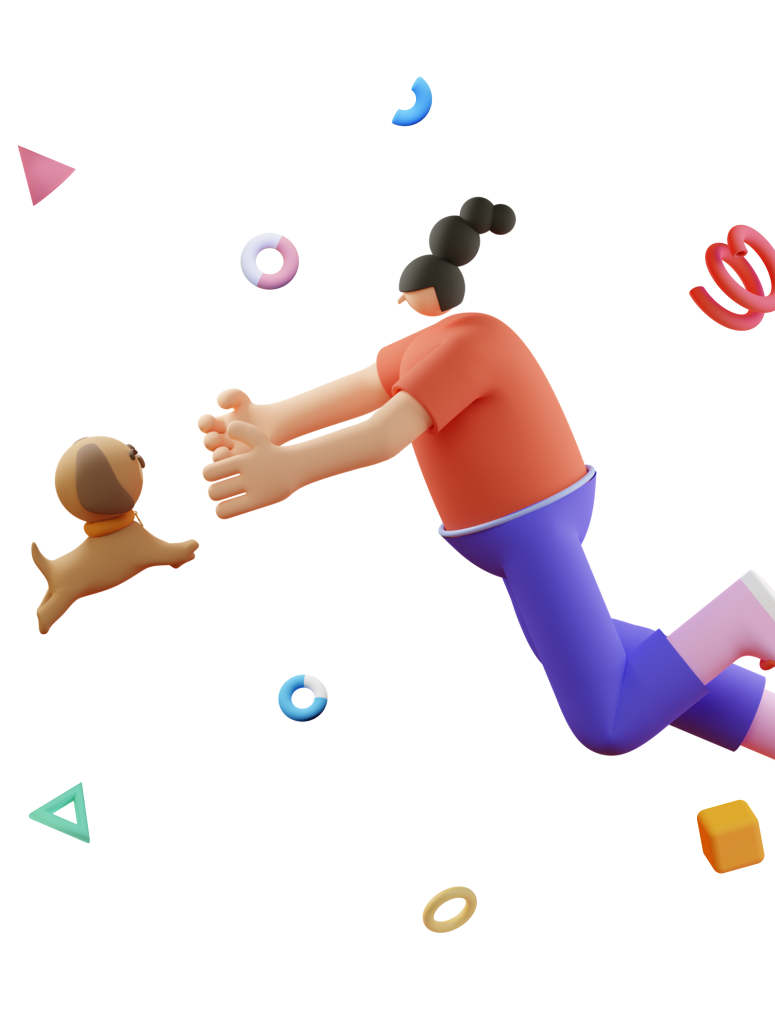
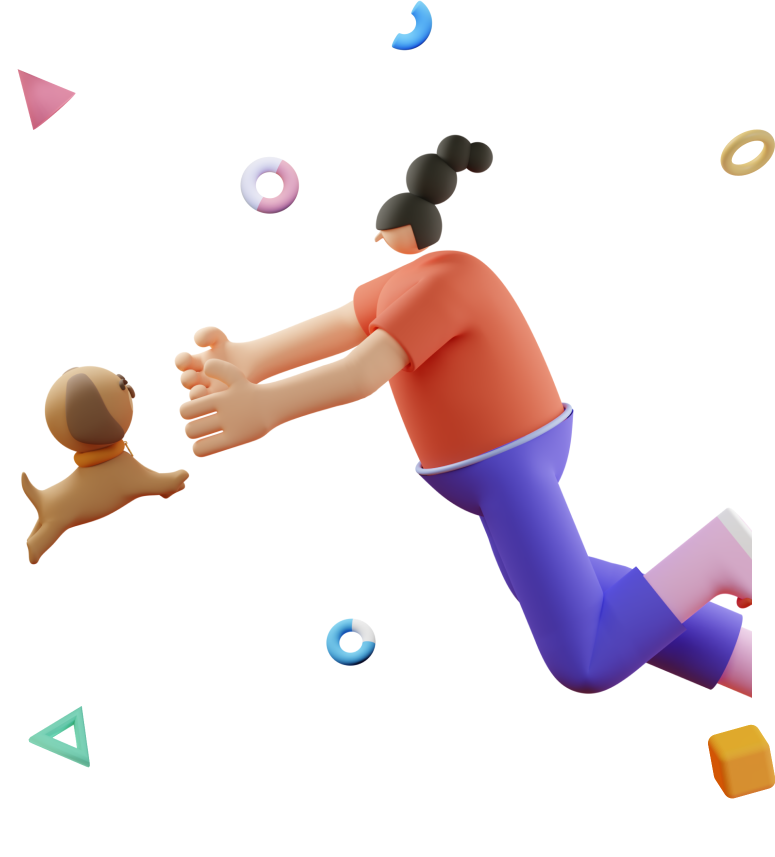
fix home and other pages height sizes, edit home image

diff --git a/src/views/Home.vue b/src/views/Home.vue
@@ -29,7 +29,13 @@ export default {
 </script>
 
 <style scoped lang="scss">
+.home__container {
+  position: relative;
+  width: 42.5rem;
+  height: 52.5rem;
+}
 .home-background-box {
+  position: relative;
   width: 42.5rem;
   height: 52.5rem;
   background-color: #fbe0dc;
@@ -37,11 +43,10 @@ export default {
 }
 
 .home-girl-image {
-  position: relative;
+  position: absolute;
   width: 48.4375rem;
-  height: 64rem;
-  margin-top: -58.3125rem;
-  margin-left: -4.0625rem;
+  margin-top: -850px;
+  margin-left: -72px;
 }
 
 @media (max-width: 1440px) {

diff --git a/src/views/Gallery.vue b/src/views/Gallery.vue
@@ -103,7 +103,7 @@ export default {
   flex-wrap: wrap;
   align-content: flex-start;
   width: 42.5rem;
-  height: 48.875rem;
+  height: 48.25rem;
   background: #ffffff;
   border-radius: 1.25rem;
   overflow: scroll;

diff --git a/src/views/Breeds.vue b/src/views/Breeds.vue
@@ -91,7 +91,7 @@ export default {
   flex-wrap: wrap;
   align-content: flex-start;
   width: 42.5rem;
-  height: 48.875rem;
+  height: 48.25rem;
   background: #ffffff;
   border-radius: 1.25rem;
   overflow: scroll;

diff --git a/src/views/Voting.vue b/src/views/Voting.vue
@@ -72,7 +72,7 @@ export default {
   flex-wrap: wrap;
   align-content: flex-start;
   width: 42.5rem;
-  height: 48.875rem;
+  height: 48.25rem;
   background: #ffffff;
   border-radius: 1.25rem;
 }
